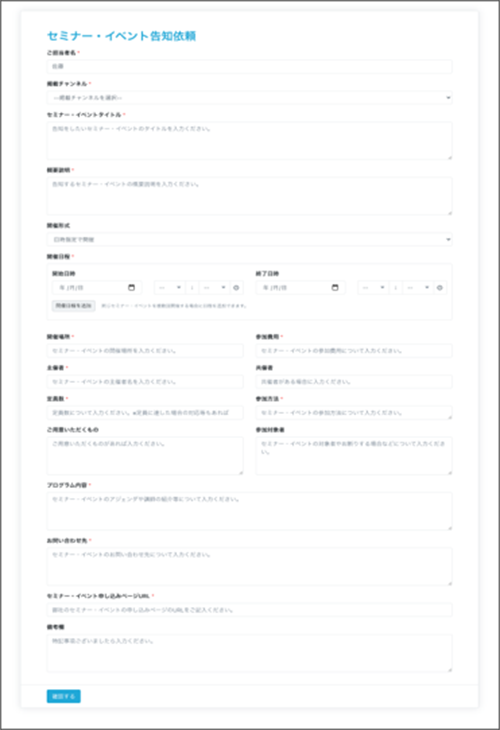
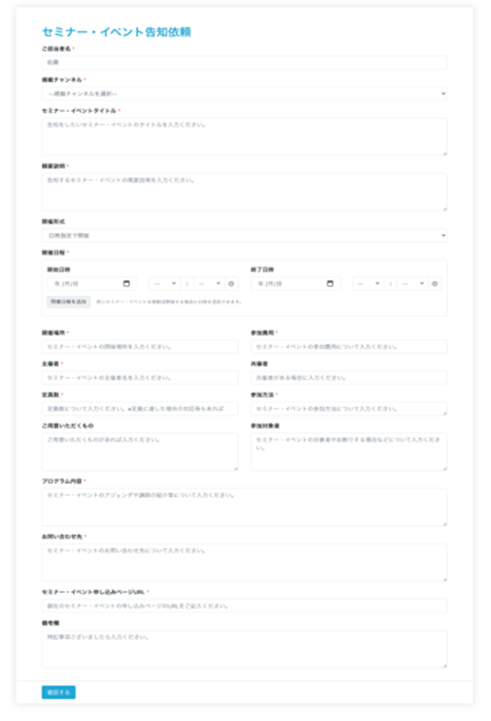
Update

diff --git a/index.html b/index.html
@@ -2949,21 +2949,21 @@
             })
         });
 
-        const imgzoom = document.getElementById("zoomin");
-        const img = document.querySelector("img");
-        imgzoom.addEventListener("mousemove", (e) => {
-            const x = e.clientX - e.target.offsetLeft;
-            const y = e.clientY - e.target.offsetTop;
+        // const imgzoom = document.getElementById("zoomin");
+        // const img = document.querySelector("img");
+        // imgzoom.addEventListener("mousemove", (e) => {
+        //     const x = e.clientX - e.target.offsetLeft;
+        //     const y = e.clientY - e.target.offsetTop;
 
-            console.log(x, y);
+        //     console.log(x, y);
 
-            img.style.transformOrigin = '${x}px ${y}px';
-            img.style.transform = "scale(2)"
-        })
-        imgzoom.addEventListener("mouseleave", () => {
-            img.style.transformOrigin = "center";
-            img.style.transform = "scale(1)";
-        })
+        //     img.style.transformOrigin = '${x}px ${y}px';
+        //     img.style.transform = "scale(2)"
+        // })
+        // imgzoom.addEventListener("mouseleave", () => {
+        //     img.style.transformOrigin = "center";
+        //     img.style.transform = "scale(1)";
+        // })
     </script>
 
 </body>

diff --git a/css/hnd.content.css b/css/hnd.content.css
@@ -572,14 +572,12 @@
     .main-content .Section-item .right .right-content #zoomout #zoom-content #zoomin img {
         width: auto !important;
         height: auto;
-        max-width: 100%;
         cursor: pointer;
         object-fit: cover;
         background-position: center;
         background-size: cover;
         transition: transform ease 0.3s;
     }
-    /* .main-content .Section-item .right .right-content #zoomout #zoom-content #zoomin:hover img {} */
     
     .main-content .Section-item .right .right-content #zoomout .close {
         float: right;
